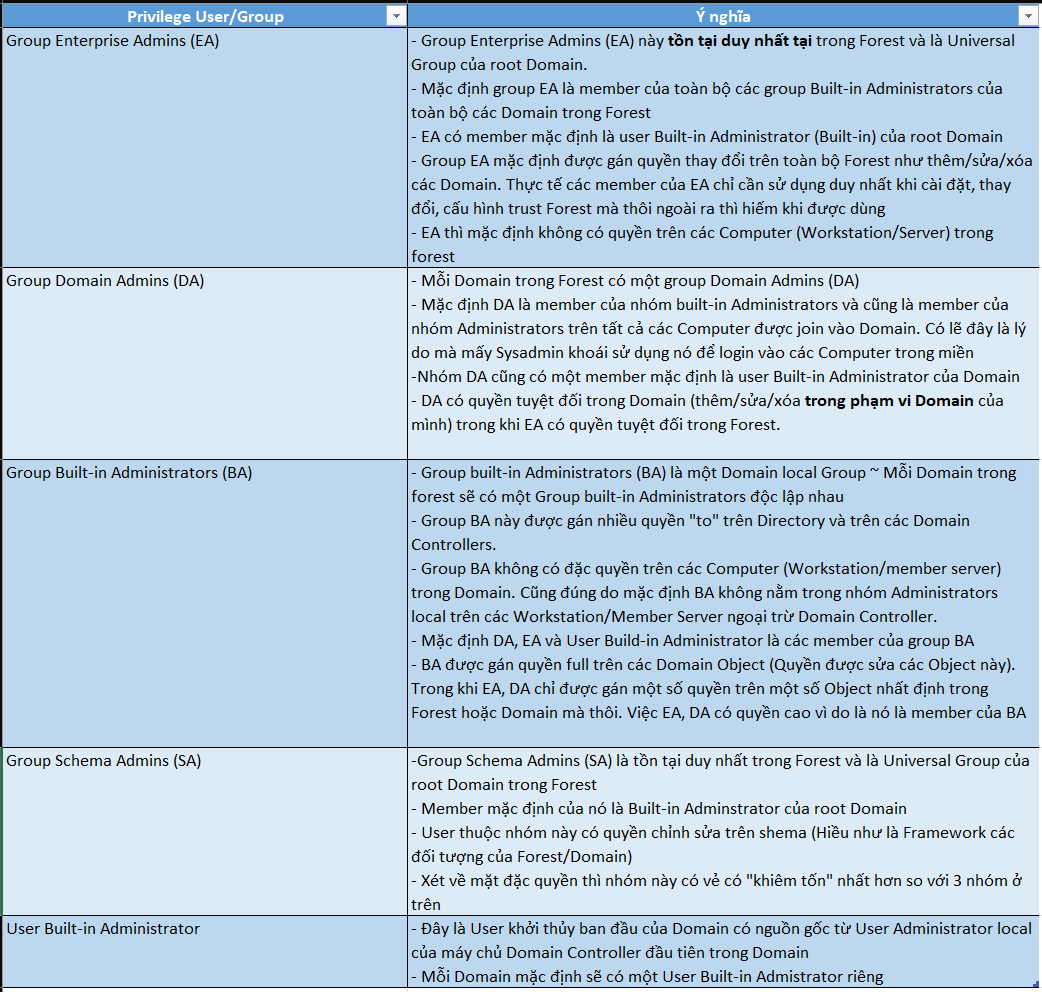
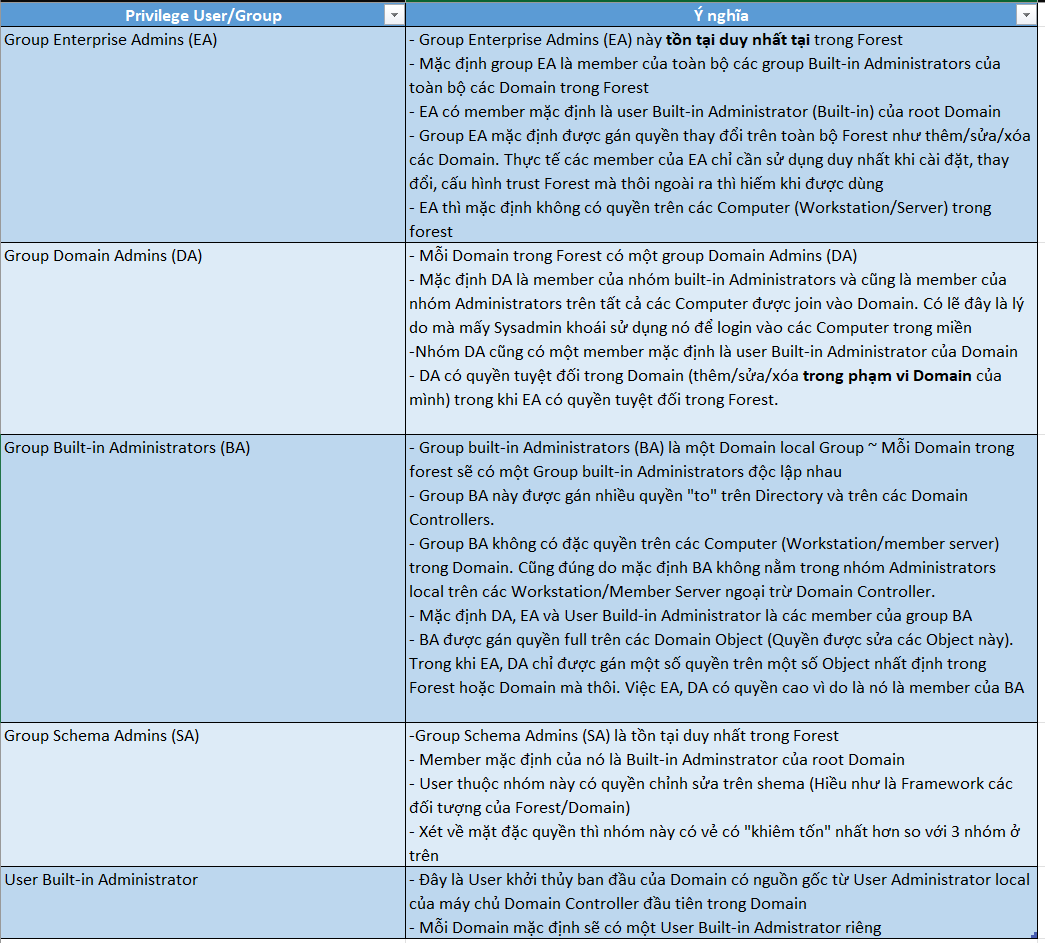
update group

Changed region(s): [[0.0, 0.0, 1.0, 1.0]]

diff --git a/_posts/2024-04-10-ActiveDirectorySecurity-Active-Directory-In-Basic-p1.md b/_posts/2024-04-10-ActiveDirectorySecurity-Active-Directory-In-Basic-p1.md
@@ -93,8 +93,9 @@ Xin phép chia ra làm 2 category như sau:
 
 * Nhóm "Quan trọng" (Nhóm cần bảo vệ) bao gồm:
 
-Đọc nhiều hơn bạn có thể đọc ở [Link này](https://learn.microsoft.com/en-us/windows-server/identity/ad-ds/plan/security-best-practices/appendix-b--privileged-accounts-and-groups-in-active-directory#domain-admins). Nhưng tôi nghĩ là không nên vì đặc điểm của MS là viết dai viết dài đâm ra thành viết dại chả ai đọc, các nội dung chính tôi đã tóm tắt ở trên rồi.
+![Privileage Group2]( {{site.url}}/assets/img/2024/04/10/03-built-in-user-group.png)
 
+Đọc nhiều hơn bạn có thể đọc ở [Link này](https://learn.microsoft.com/en-us/windows-server/identity/ad-ds/plan/security-best-practices/appendix-b--privileged-accounts-and-groups-in-active-directory#domain-admins). Nhưng tôi nghĩ là không nên vì đặc điểm của MS là viết dai viết dài đâm ra thành viết dại chả ai đọc, các nội dung chính tôi đã tóm tắt ở trên rồi.
 
 ## Các cơ chế xác thực trên AD điều cần phải biết,
 
